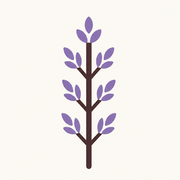
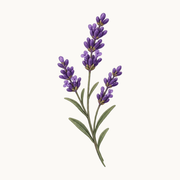
Toque Vanster en el catalogo y ramita de lavanda nueva
- Cada ficha abre con un filete magenta que se dibuja al llegar a ella y
  lleva su numero enorme en magenta al 5%, como marca de agua en el lado del
  texto, alineado con el borde del contenido para no pisar la espiga.
- Ramita de lavanda en color (logopequeño2.png, recortada) como firma de la
  intro y como favicon, icono de iPhone y favicon.ico: en color se lee mejor
  a 32 px que la anterior.

Changed region(s): [[0.3056, 0.0556, 0.6944, 0.9444]]

diff --git a/components/sections/products/ProductFeature.jsx b/components/sections/products/ProductFeature.jsx
@@ -1,6 +1,7 @@
 import ProductMedia from '@/components/ui/ProductMedia';
 import FadeIn from '@/components/animations/FadeIn';
 import MaskReveal from '@/components/animations/MaskReveal';
+import DrawLine from '@/components/animations/DrawLine';
 
 /**
  * Ficha de producto a dos columnas: pieza a un lado y texto al otro, y las
@@ -8,6 +9,10 @@ import MaskReveal from '@/components/animations/MaskReveal';
  * videos son apaisados y las fotos verticales, asi que la pieza apaisada toma
  * mas columnas que la vertical y ninguna se recorta. En movil se apila, con
  * la pieza primero.
+ *
+ * Toque Vanster sobre el fondo claro, sin tocar las fotos: un filete magenta
+ * que se dibuja al llegar a cada ficha y el numero de la ficha enorme, en
+ * magenta al 5%, como marca de agua en el lado del texto.
  */
 export default function ProductFeature({ item, index, media, id, reverse = false, credit = false }) {
   const number = String(index + 1).padStart(2, '0');
@@ -22,7 +27,16 @@ export default function ProductFeature({ item, index, media, id, reverse = false
     : `md:col-span-6 ${reverse ? 'md:col-start-1 md:row-start-1' : 'md:col-start-7'}`;
 
   return (
-    <section id={id} data-bg-tone="light" className="bg-background px-6 py-10 md:px-12 md:py-14">
+    <section id={id} data-bg-tone="light" className="relative isolate overflow-hidden bg-background px-6 py-10 md:px-12 md:py-14">
+      <DrawLine className="mx-auto mb-10 max-w-6xl text-vanster/60 md:mb-14" />
+      <span
+        aria-hidden="true"
+        className={`pointer-events-none absolute -bottom-[0.18em] -z-10 select-none font-serif text-[clamp(11rem,26vw,24rem)] leading-none tracking-tight text-vanster/5 ${
+          reverse ? 'left-6 md:left-[max(3rem,calc((100%-72rem)/2))]' : 'right-6 md:right-[max(3rem,calc((100%-72rem)/2))]'
+        }`}
+      >
+        {number}
+      </span>
       <article className="mx-auto grid max-w-6xl items-start gap-10 md:grid-cols-12 md:gap-12 lg:gap-16">
         <div className={mediaPlace}>
           <ProductMedia

diff --git a/components/sections/Intro.jsx b/components/sections/Intro.jsx
@@ -1,3 +1,4 @@
+import Image from 'next/image';
 import RevealLines from '@/components/animations/RevealLines';
 
 /**
@@ -8,11 +9,26 @@ import RevealLines from '@/components/animations/RevealLines';
  */
 export default function Intro({ text }) {
   return (
-    <section id="intro" data-bg-tone="light" className="bg-background px-6 pb-8 pt-24 md:px-12 md:pb-10 md:pt-32">
-      <div className="mx-auto max-w-6xl">
-        <RevealLines
-          text={text}
-          className="max-w-[42ch] text-pretty font-body text-[clamp(1.375rem,1.8vw,1.5rem)] leading-[1.4] text-text"
+    <section
+      id="intro"
+      data-bg-tone="light"
+      className="bg-background px-6 pb-8 pt-24 md:px-12 md:pb-10 md:pt-32"
+    >
+      <div className="mx-auto flex max-w-6xl items-end justify-between gap-8">
+        <div className="min-w-0 flex-1">
+          <RevealLines
+            text={text}
+            className="max-w-[42ch] text-pretty font-body text-[clamp(1.375rem,1.8vw,1.5rem)] leading-[1.4] text-text"
+          />
+        </div>
+        {/* Ramita de lavanda como firma de la intro; decorativa. */}
+        <Image
+          src="/images/ramita-lavanda.png"
+          alt=""
+          aria-hidden="true"
+          width={130}
+          height={300}
+          className="hidden h-auto w-[56px] shrink-0 md:block"
         />
       </div>
     </section>

diff --git a/components/animations/DrawLine.jsx b/components/animations/DrawLine.jsx
@@ -1,0 +1,26 @@
+'use client';
+
+import { useRef } from 'react';
+import { motion, useInView } from 'framer-motion';
+import { EASE } from '@/components/animations/easing';
+
+/**
+ * Filete de 1px que se dibuja de izquierda a derecha al entrar en pantalla
+ * (scaleX desde 0, solo transform). Con movimiento reducido MotionConfig lo
+ * deja dibujado sin animar.
+ */
+export default function DrawLine({ className = '' }) {
+  const ref = useRef(null);
+  const inView = useInView(ref, { once: true, amount: 1 });
+
+  return (
+    <span ref={ref} aria-hidden="true" className={`block h-px ${className}`}>
+      <motion.span
+        className="block h-full w-full origin-left bg-current"
+        initial={{ scaleX: 0 }}
+        animate={inView ? { scaleX: 1 } : undefined}
+        transition={{ duration: 1.2, ease: EASE }}
+      />
+    </span>
+  );
+}
